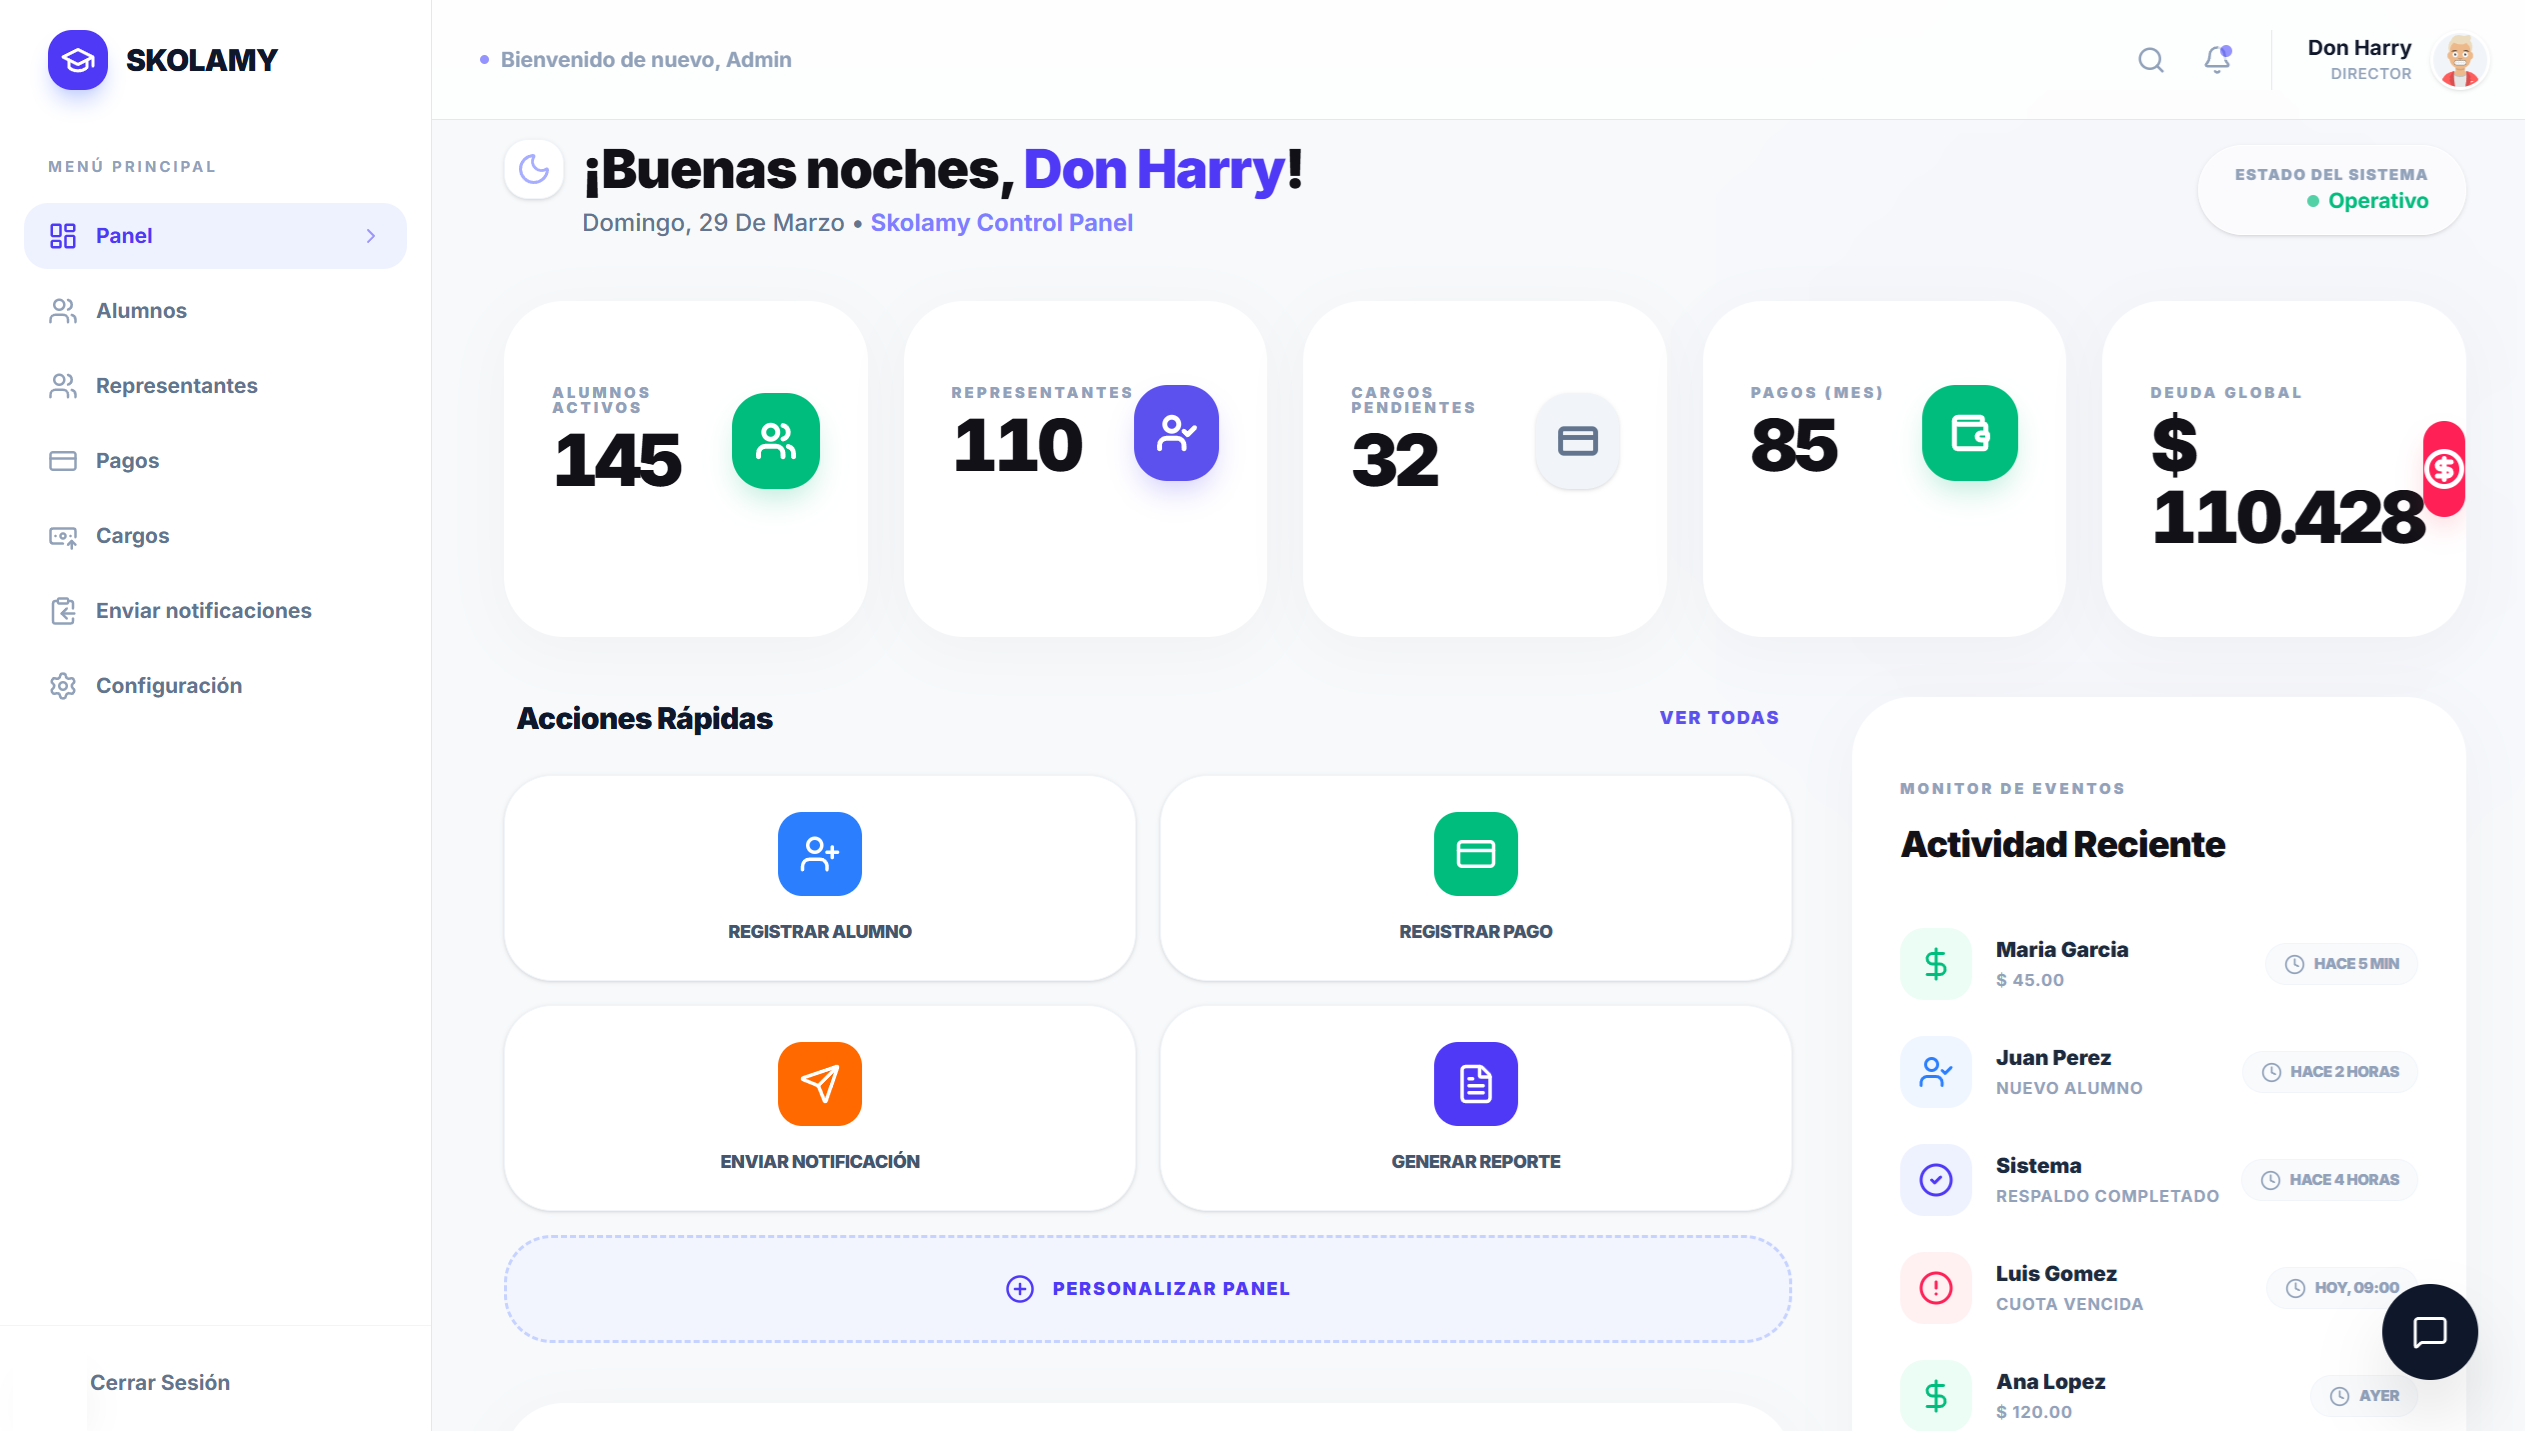
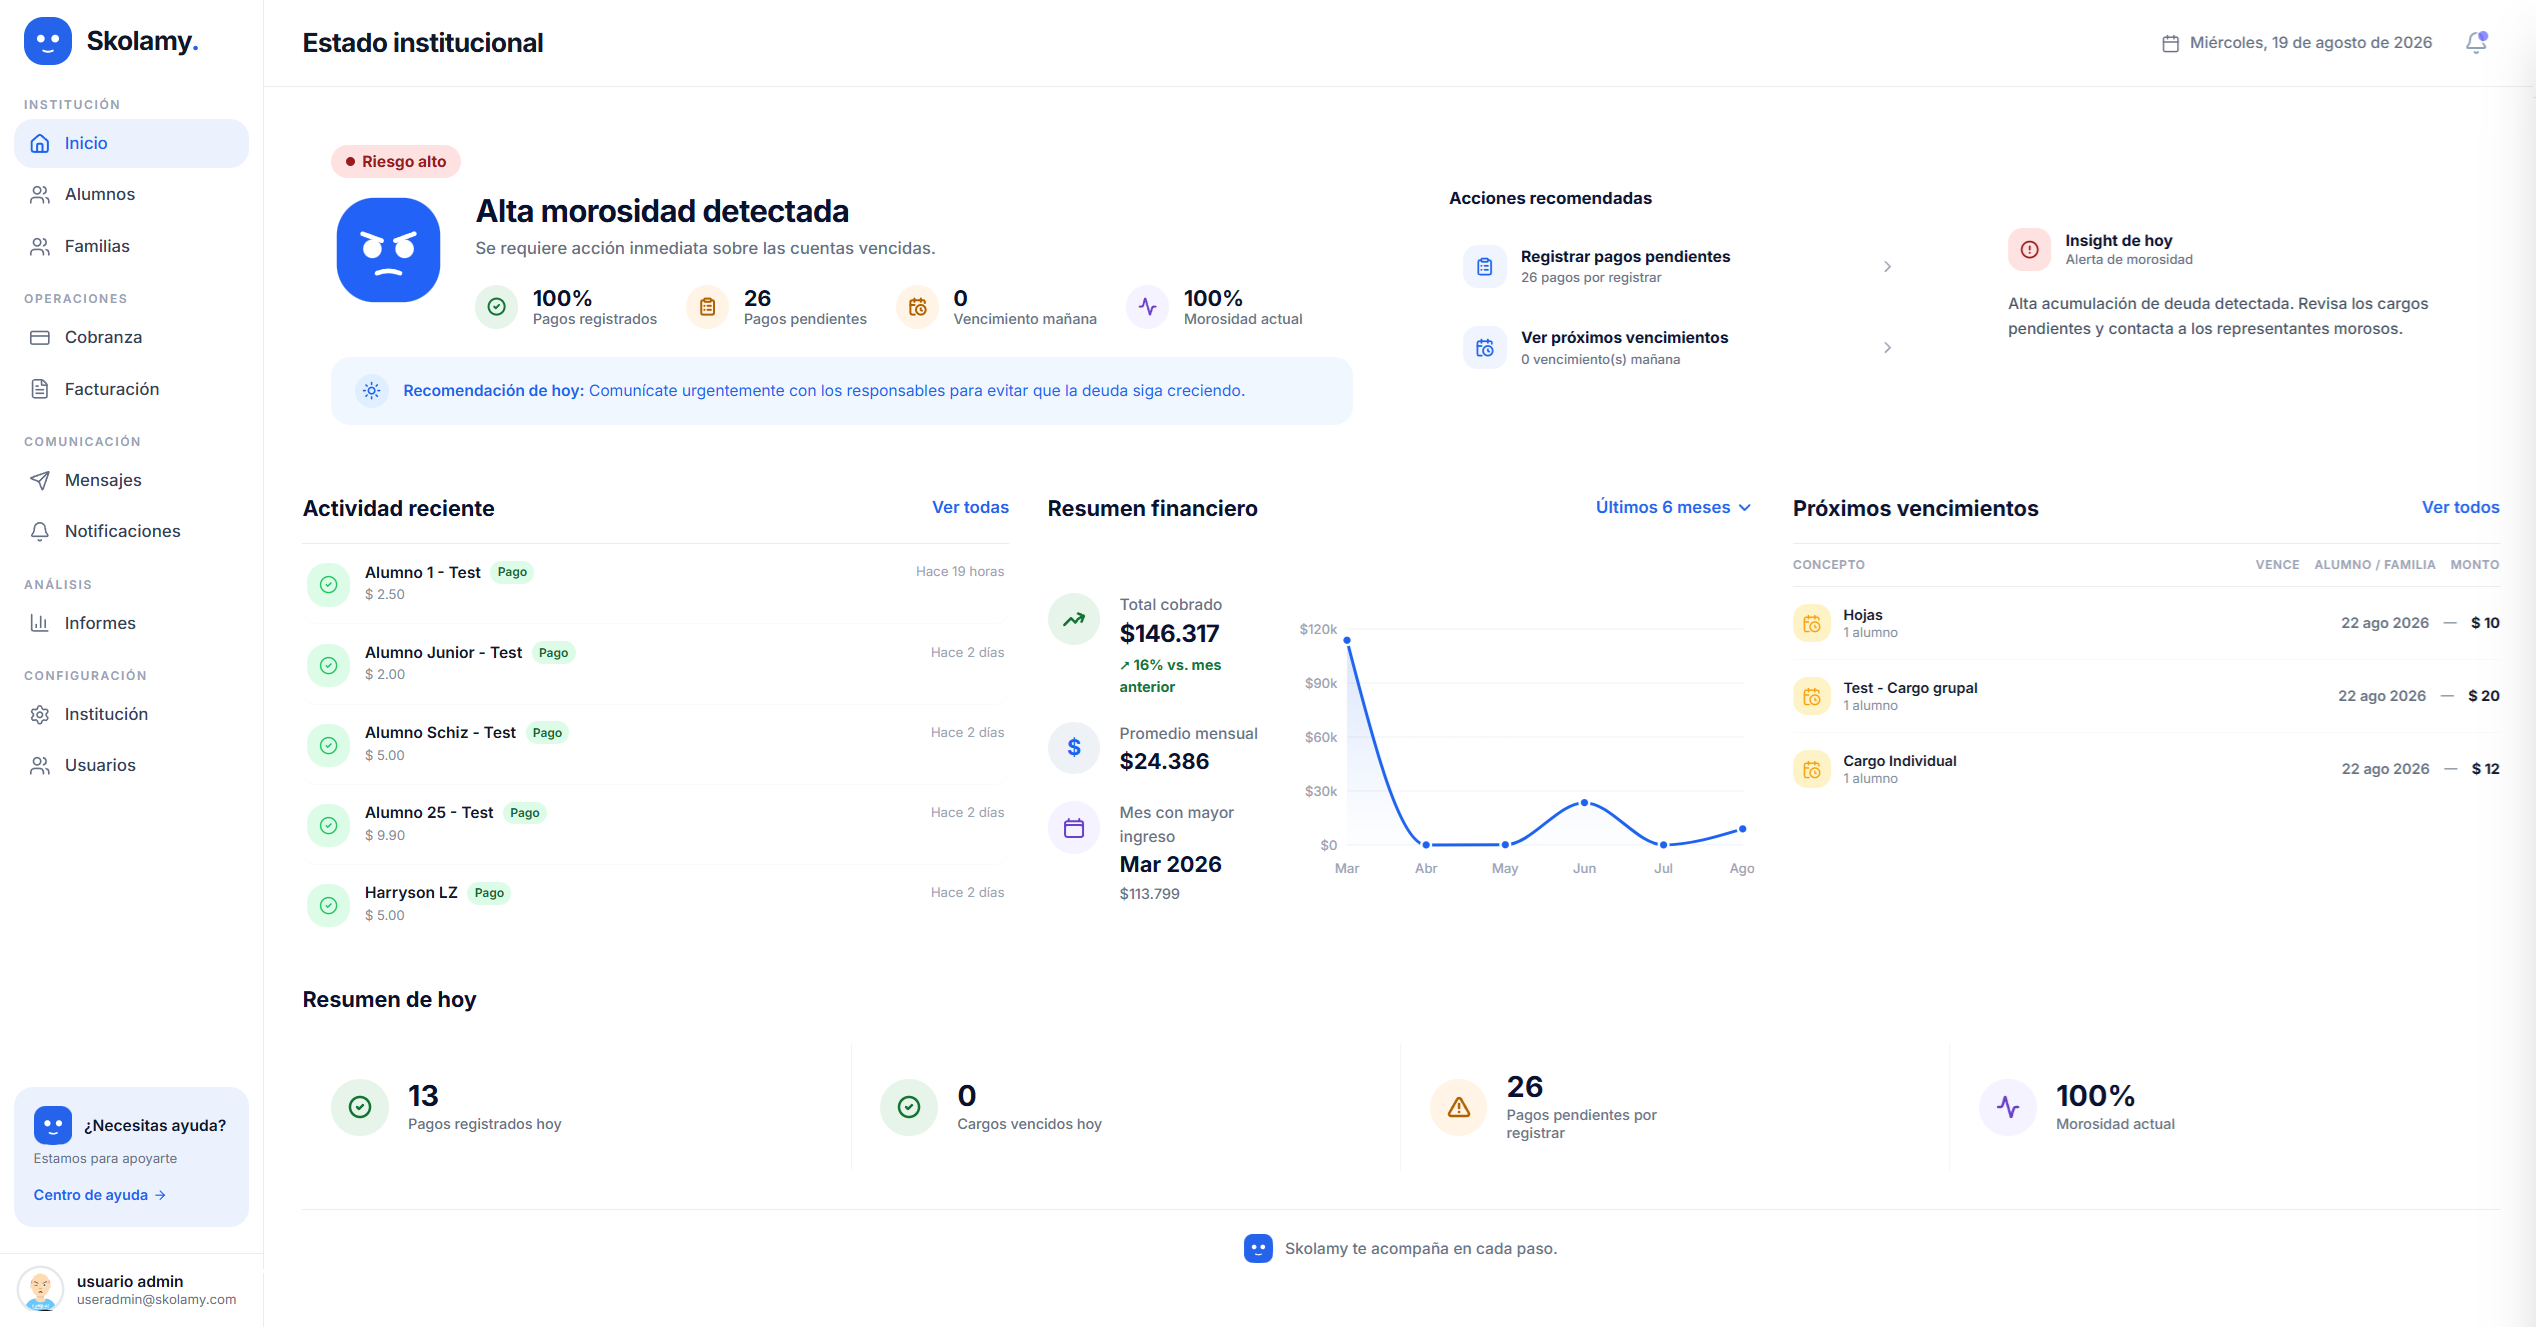
chore: Update skolamy-dashboard.png

diff --git a/src/components/landing/Hero.tsx b/src/components/landing/Hero.tsx
@@ -87,9 +87,9 @@ export const Hero = () => {
           }}
           className="perspective-1000 transform-gpu"
         >
-          <div className="bg-[#f8fafc]/50 p-2 md:p-4 rounded-[3rem] border border-[#2e2928]/5 shadow-2xl backdrop-blur-3xl overflow-hidden relative group">
-            <div className="bg-[#f8fafc] rounded-[2.5rem] border border-[#2e2928]/5 shadow-inner overflow-hidden aspect-[16/10] flex relative z-10 font-sans">
-              <Image src="/Skolamy-dashboard.png" alt="Skolamy Dashboard" fill className="object-contain drop-shadow-sm rounded-xl" />
+          <div className="bg-[#f8fafc]/50 p-0 md:p-2 rounded-[1rem] border border-[#2e2928]/5 shadow-2xl backdrop-blur-3xl overflow-hidden relative group">
+            <div className="bg-[#f8fafc] rounded-[2.5rem] border border-[#2e2928]/5 shadow-inner overflow-hidden relative z-10 font-sans">
+              <Image src="/Skolamy-dashboard.png" alt="Skolamy Dashboard" width={2560} height={1600} className="w-full h-auto block drop-shadow-sm rounded-xl" />
             </div>
           </div>
         </motion.div>
